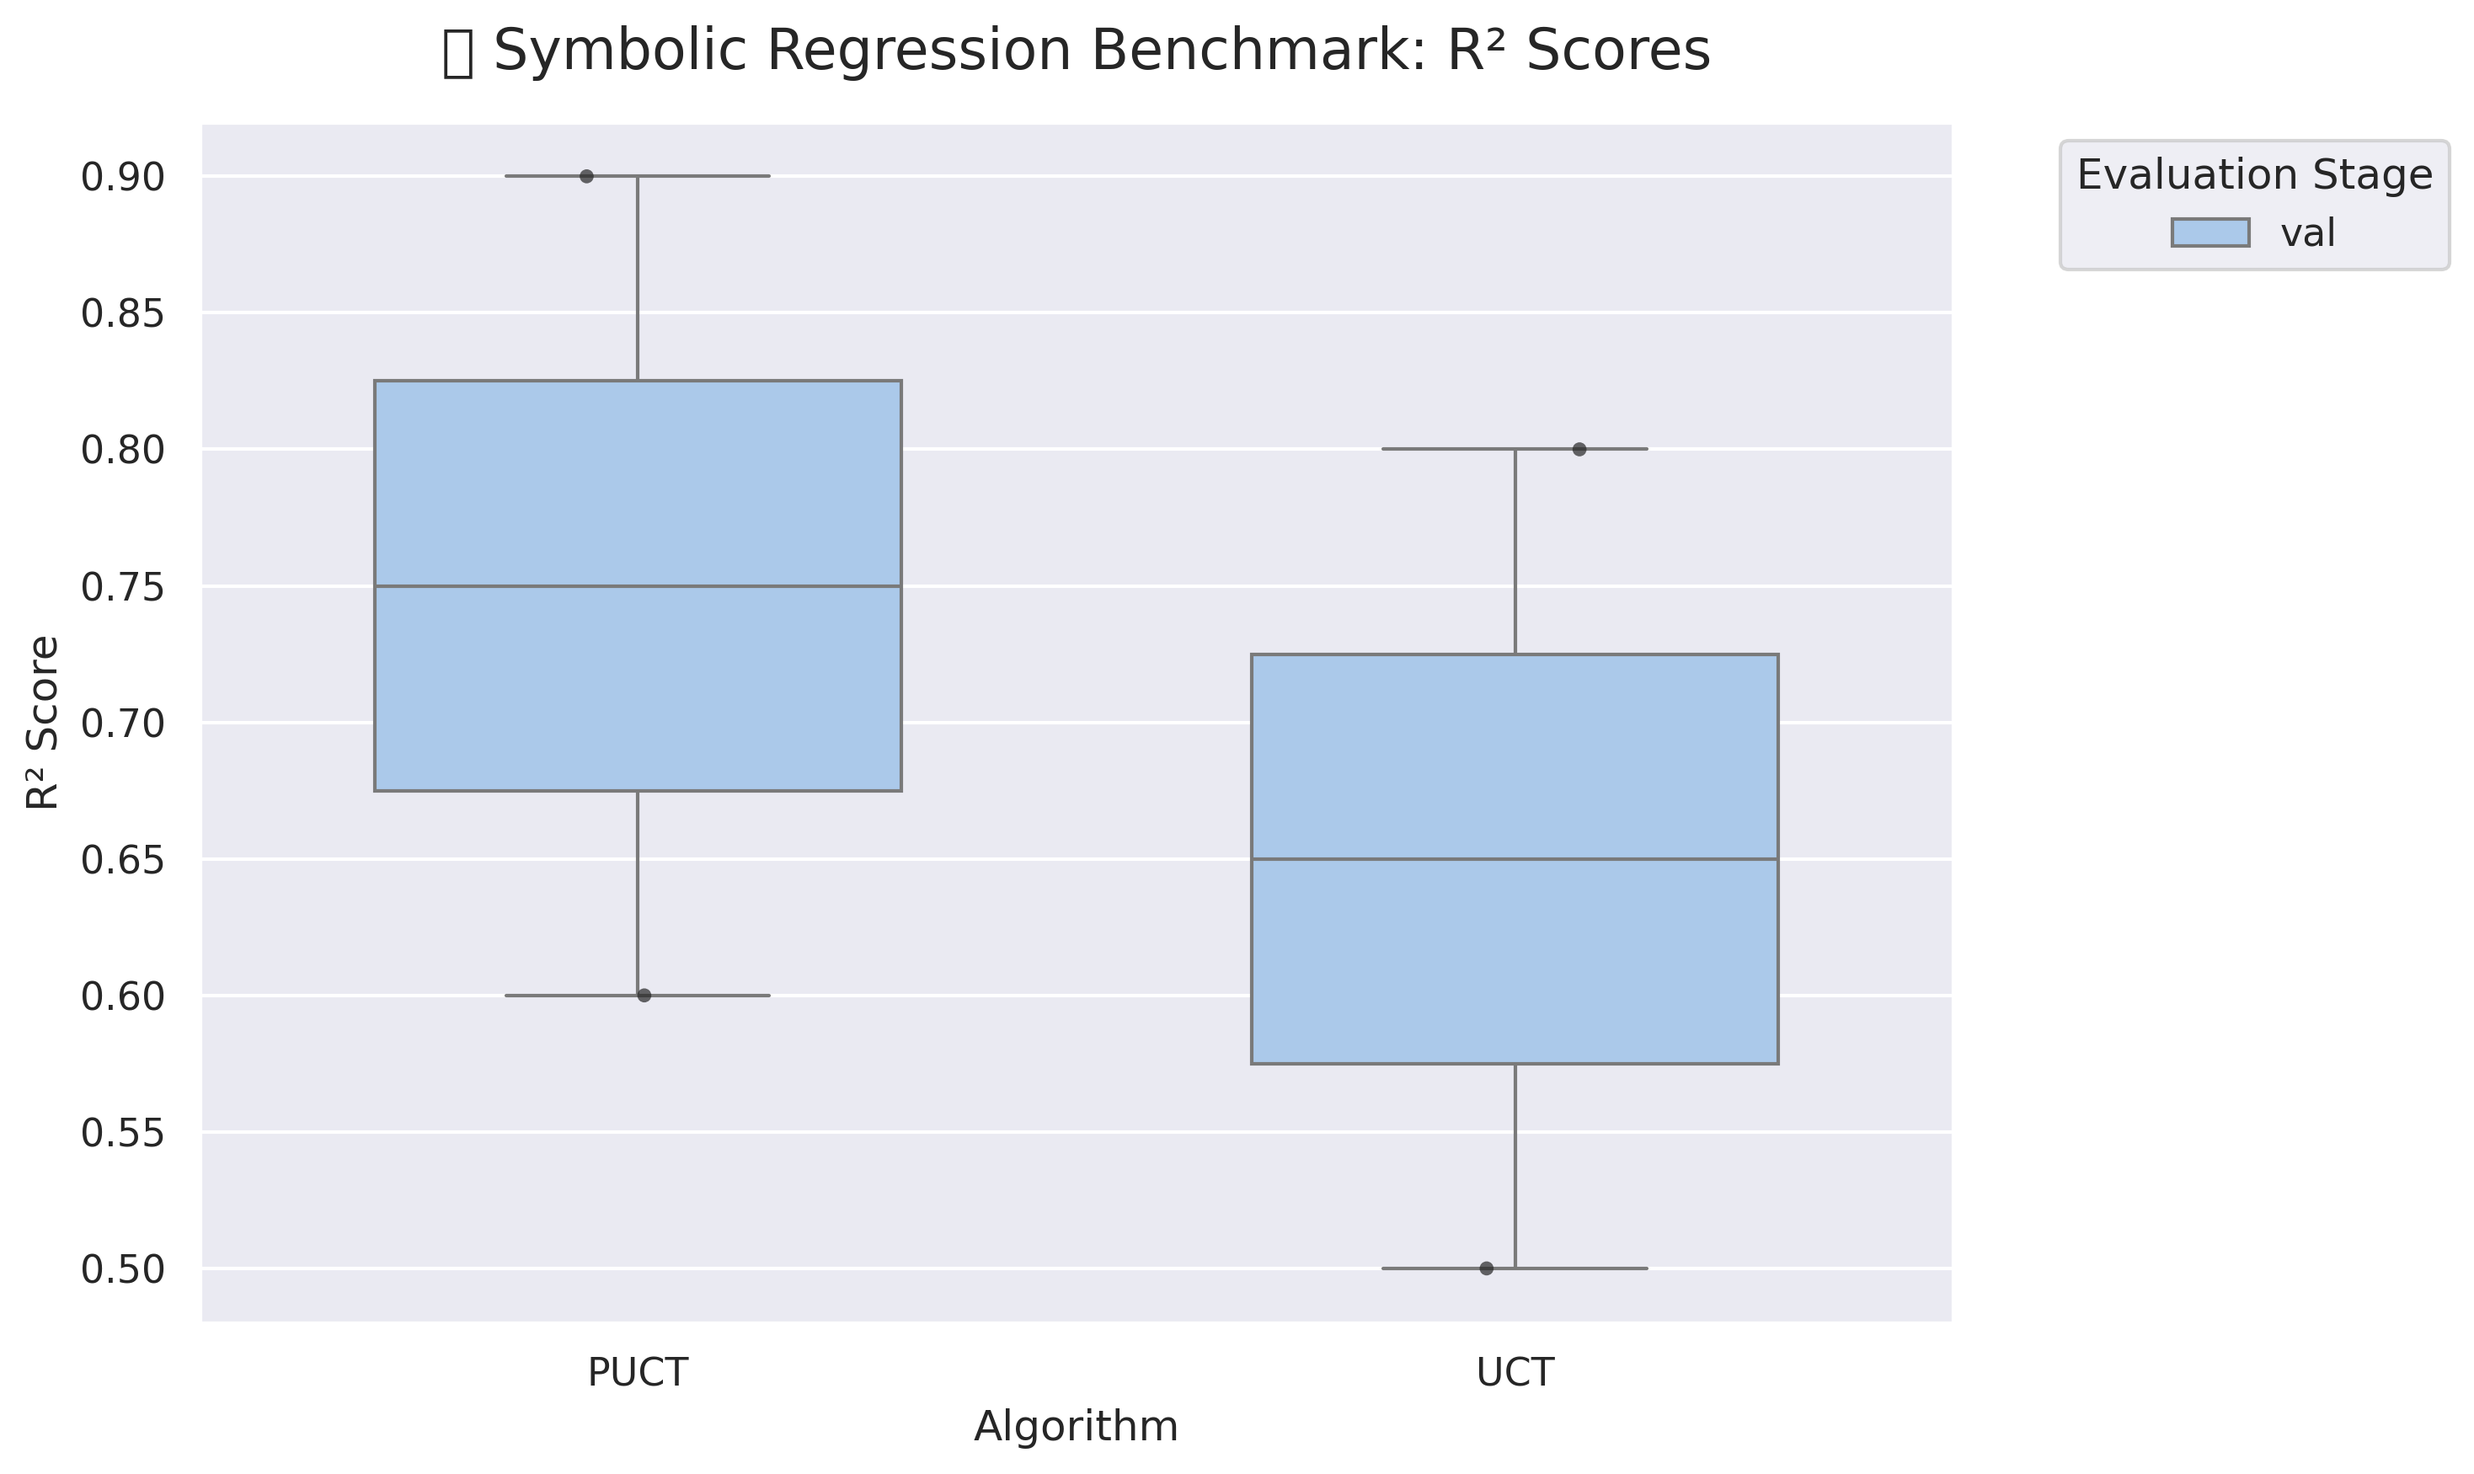
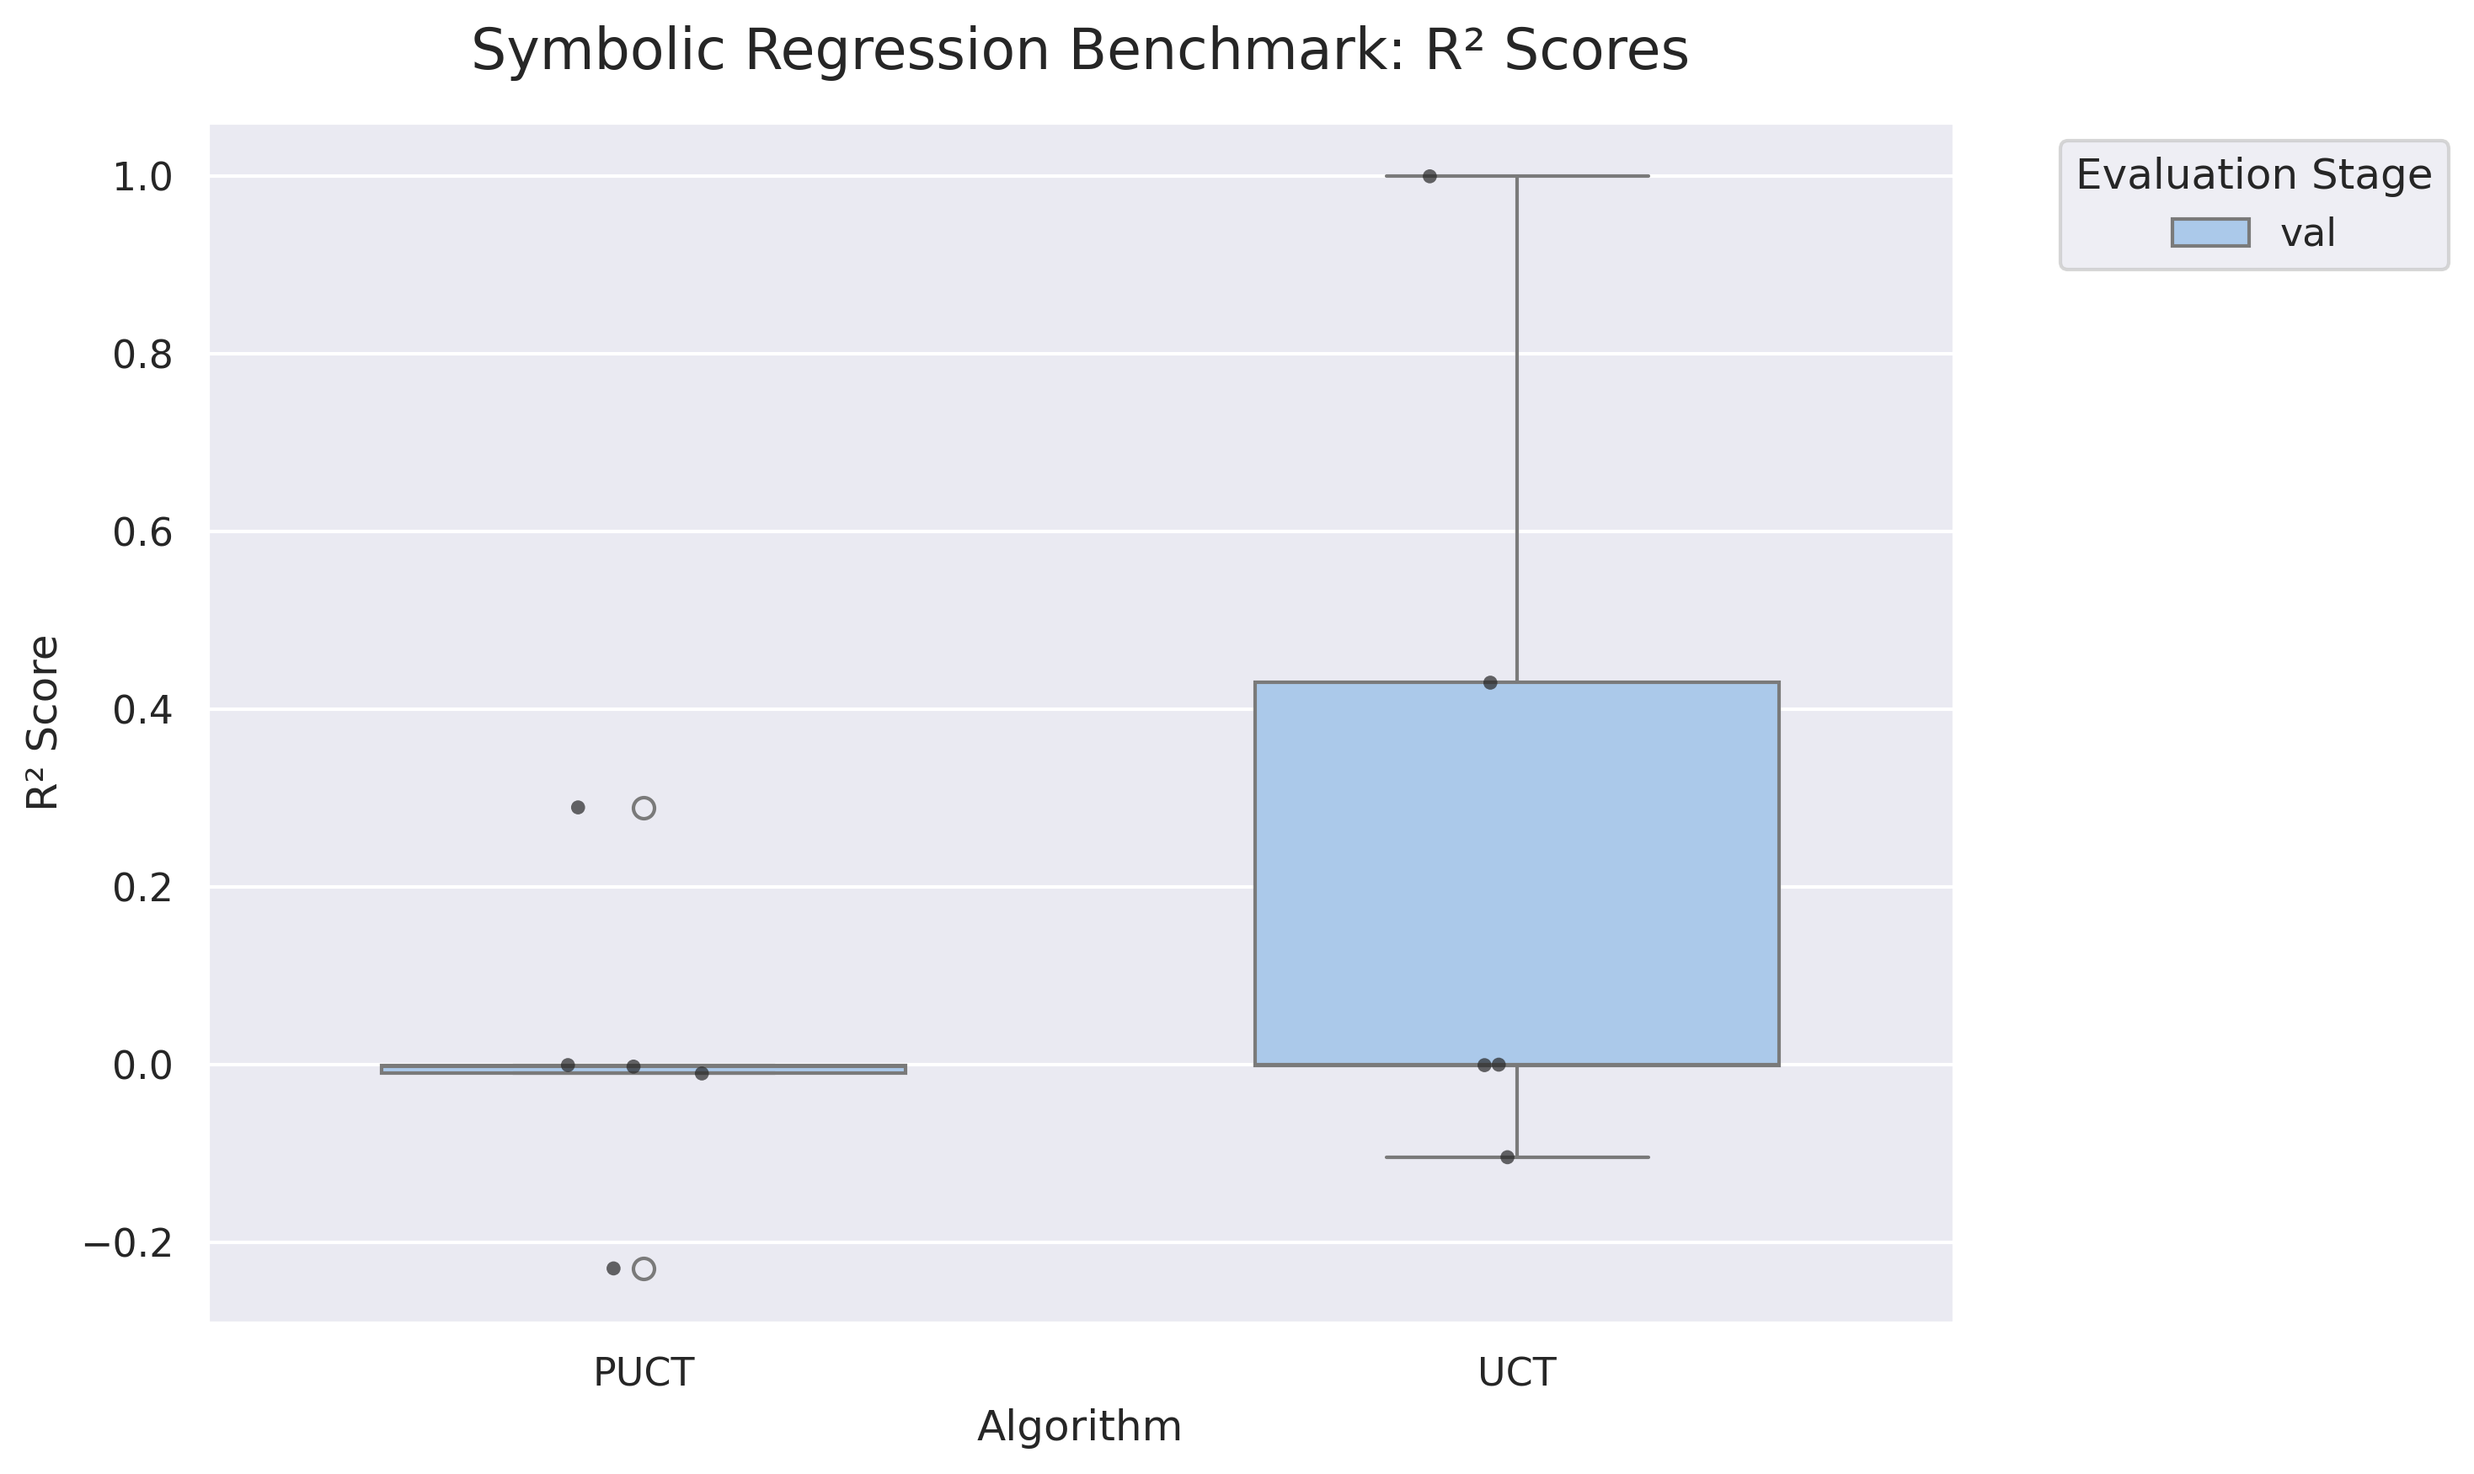
patch visualisation

diff --git a/scripts/visualize_benchmark.py b/scripts/visualize_benchmark.py
@@ -67,16 +67,16 @@ def main():
     
     plt.figure(figsize=(10, 6))
     
+    # Title and labels
+    plt.title("Symbolic Regression Benchmark: R² Scores", fontsize=16, pad=15)
+    plt.xlabel("Algorithm", fontsize=12)
+    plt.ylabel("R² Score", fontsize=12)
+    
     # Box plot
     ax = sns.boxplot(x="algo_name", y="r2", hue="run_type", data=df, width=0.6)
     
-    # Strip plot to show individual points
-    sns.stripplot(x="algo_name", y="r2", hue="run_type", data=df, size=4, color=".3", linewidth=0, dodge=True, alpha=0.7)
-    
-    # Title and labels
-    plt.title("✨ Symbolic Regression Benchmark: R² Scores", fontsize=16, pad=15)
-    plt.xlabel("Algorithm", fontsize=12)
-    plt.ylabel("R² Score", fontsize=12)
+    # Strip plot to show individual points (fixed seaborn deprecation warning)
+    sns.stripplot(x="algo_name", y="r2", hue="run_type", data=df, size=4, palette="dark:.3", linewidth=0, dodge=True, alpha=0.7)
     
     # Fix the legend (remove duplicate entries from stripplot)
     handles, labels = ax.get_legend_handles_labels()
